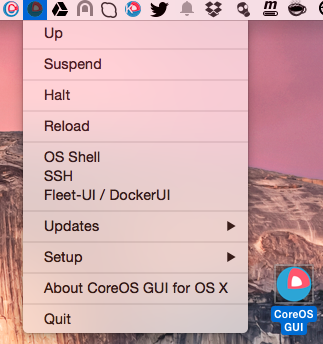
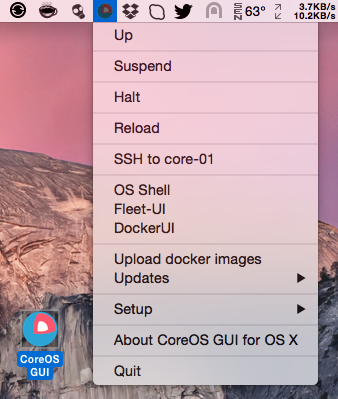
v0.7.9

diff --git a/src/CoreOS GUI/AppDelegate.m b/src/CoreOS GUI/AppDelegate.m
@@ -138,6 +138,17 @@
     [self checkVMStatus];
 }
 
+- (IBAction)upload_docker_images:(id)sender {
+    // send a notification on to the screen
+    NSUserNotification *notification = [[NSUserNotification alloc] init];
+    notification.title = @"docker images";
+    notification.informativeText = @"will be loaded";
+    [[NSUserNotificationCenter defaultUserNotificationCenter] deliverNotification:notification];
+    
+    NSString *appName = [[NSString alloc] init];
+    NSString *arguments = [[NSString alloc] init];
+    [self runApp:appName = @"iTerm" arguments:arguments = [_resoucesPathFromApp stringByAppendingPathComponent:@"load_docker_images.command"]];
+}
 
 // Updates menu
 - (IBAction)updates:(id)sender {
@@ -251,11 +262,13 @@
 }
 
 
-- (IBAction)fleetUI_dockerUI:(id)sender {
+- (IBAction)fleetUI:(id)sender {
     [[NSWorkspace sharedWorkspace] openURL:[NSURL URLWithString:@"http://172.19.8.99:3000"]];
-    [[NSWorkspace sharedWorkspace] openURL:[NSURL URLWithString:@"http://172.19.8.99:9000"]];
 }
 
+- (IBAction)dockerUI:(id)sender {
+    [[NSWorkspace sharedWorkspace] openURL:[NSURL URLWithString:@"http://172.19.8.99:9000"]];
+}
 
 - (void)runScript:(NSString*)scriptName arguments:(NSString*)arguments
 {

diff --git a/README.md b/README.md
@@ -21,18 +21,24 @@ Required software
 * Download `CoreOS Vagrant OSX GUI latest.dmg` from the [Releases Page](https://github.com/rimusz/coreos-osx-gui/releases) and open it and drag the App e.g to your Desktop.
 * Start the `CoreOS Vagrant OSX GUI` and from menu `Setup` choose `Initial setup of CoreOS-Vagrant` 
 * The install will do the following:
+
 ````
-1) All dependent files/folders will be put under "coreos-osx" folder in the user's home folder e.g /Users/someuser/coreos-osx
+1) All dependent files/folders will be put under "coreos-osx" folder in the user's home 
+ folder e.g /Users/someuser/coreos-osx
 2) Will clone latest coreos-vagrant from git
 3) user-data file will have fleet, etcd, and Docker Socket for the API enabled
 4) docker 2375 port will be set for docker OS X client to work properly
 5) Will set VM to static IP '172.19.8.99' 
 6) Will download and install fleet, etcd and docker OS X clients to ~/coreos-osx/bin/
-7) A small shell script "rkt" will be installed to ~/coreos-osx/bin/ which allows to call remote rkt binary with e.g rkt help
+7) A small shell script "rkt" will be installed to ~/coreos-osx/bin/ which allows to call
+ remote rkt binary with e.g rkt help
 8) Will download latest vagrant VBox and run vagrant up to initialise VM
 9) Will forward 2375 (docker) from localhost to vagrant VM.
 10) Will install DockerUI and Fleet-UI via fleet unit files from ~/coreos-osx/fleet folder.
-11) Via IP 172.19.8.99 you can access any port on CoreOS VM, no needs to put port forwards to Vagrantfile.
+11) Via IP 172.19.8.99 you can access any port on CoreOS VM, no needs to put any port forwards 
+ to Vagrantfile.
+12) user-data file enables with the flag `--insecure-registry` docker access to insecure
+ private registries.
 ````
 
 How it works
@@ -42,6 +48,7 @@ Just start `CoreOS Vagrant OSX GUI` application and you will find a small icon w
 For now it only supports a standalone CoreOS VM, cluster support might come at some stage later one.
 
 * There you can `Up`, `Suspend`, `Halt`, `Reload` CoreOS vagrant VM
+* `SSH to core-01` will open VM shell
 * Under `Up` OS Shell will be opened when `vagrant up` finishes and it will have such environment set:
 ````
 DOCKER_HOST=tcp://127.0.0.1:2375
@@ -50,13 +57,12 @@ FLEETCTL_ENDPOINT=http://172.19.8.99:4001
 Path to ~/coreos-osx/bin where docker, etcdclt and fleetctl binaries and rkt shell script are stored
 ```` 
 * `OS Shell` opens OS Shell with the same enviroment preset as `Up`
+* `Upload docker images` will upload docker images from `~/coreos-osx/docker_images`, it saves time from downloading them again from Internet.
 * `Updates/Force CoreOS update` will run `sudo update_engine_client -update` on CoreOS VM.
 * `Updates/Check for updates` will update docker, etcdclt and fleetctl OS X clients to the same versions as CoreOS VM runs. It will store downloads from github `coreos-vagrant` in `~/coreos-osx/github` folder, it will not overwrite user's `Vagrantfile, config.rb and users-data` files.
-* `SSH` will open VM shell
 * [Fleet-UI](http://fleetui.com) will show running fleet units and etc (it might take a bit of a time after install for it to work as it needs to download it's image
 * [DockerUI](https://github.com/crosbymichael/dockerui) will show all running containers and etc (it might take a bit of a time after install for it to work as it needs to download it's image)
-* Also user-data file enables with the flag `--insecure-registry` as per [CoreOS Blog](https://coreos.com/blog/docker-1-3-2-security-update/) Docker access to insecure private registries.
-* On each `Up` and `Reload` fleet unit files placed into `~/coreos-osx/fleet` folder will be reloaded and restarted, it is very handy when you used `Destroy VM` and want your fleet units to be used again.
+
 
 
 Other links
